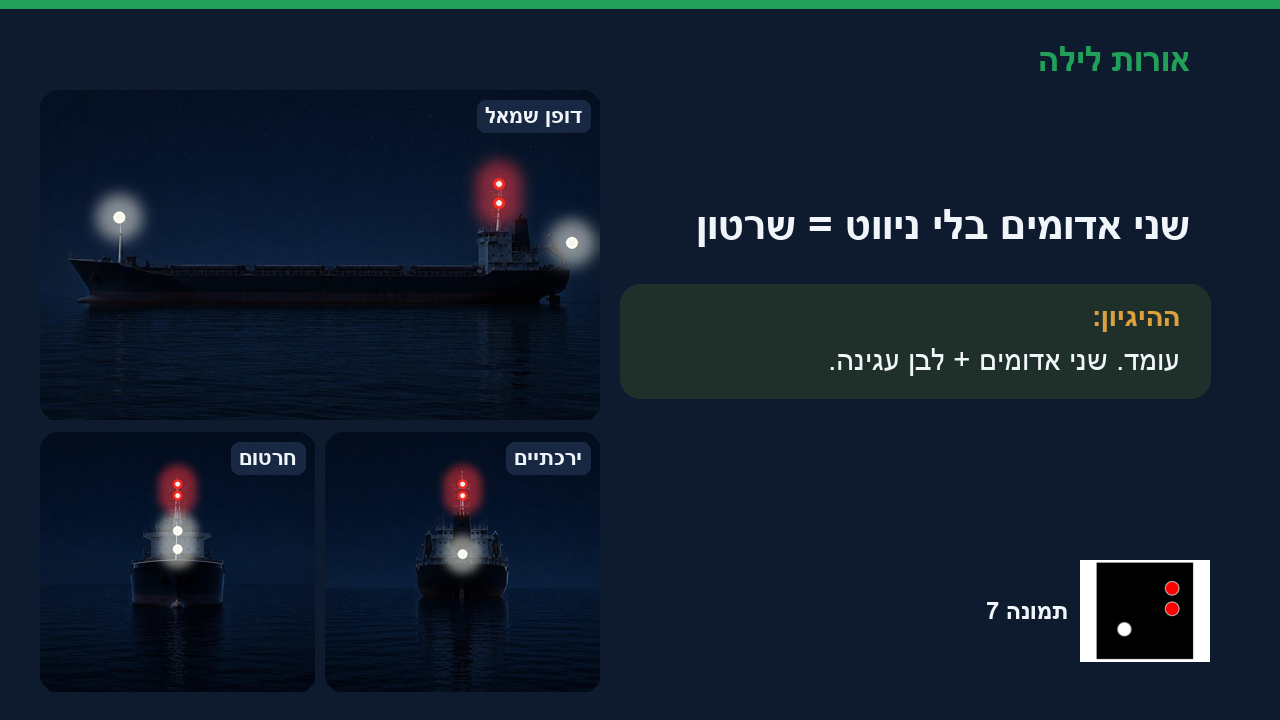
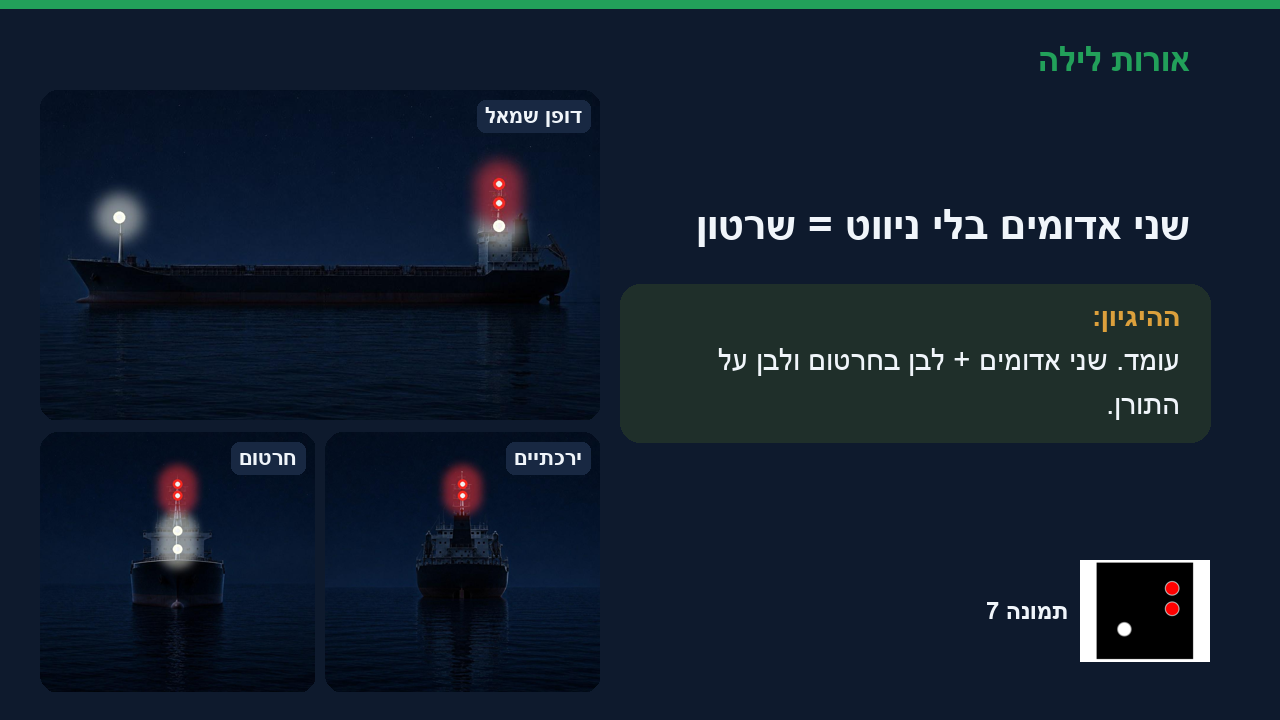
l12 אורות לילה: aground/anchor aft white on the mast, no white from astern when aground (Alex)

diff --git a/lessons/l12/sources/cards_lights.py b/lessons/l12/sources/cards_lights.py
@@ -37,9 +37,9 @@ CARDS = {
  "s_draft":   ("שלושה אדומים = מוגבל בשוקע", None, "ביום: חבית. מפנים. עוברים מאחוריו.", [25]),
  "s_mines":   ("שלושה ירוקים = שולת מוקשים", None, "מתרחקים.", [56]),
  "s_nuc":     ("שני אדומים + ניווט = חסר שליטה", None, "עושה דרכו במים, נסחף. אין לבן, אין מנוע.", [33]),
- "s_aground": ("שני אדומים בלי ניווט = שרטון", None, "עומד. שני אדומים + לבן עגינה.", [7]),
+ "s_aground": ("שני אדומים בלי ניווט = שרטון", None, "עומד. שני אדומים + לבן בחרטום ולבן על התורן.", [7]),
  "s_anchor":  ("עוגן עד 50 מטר: לבן אחד", None, "לבן אחד, רואים אותו מכל כיוון. בלי אורות ניווט.", [27]),
- "s_anchor50":("עוגן מעל 50 מטר: שני לבנים", None, "אחד בחרטום, אחד בירכתיים. הקדמי גבוה יותר.", [61]),
+ "s_anchor50":("עוגן מעל 50 מטר: שני לבנים", None, "אחד בחרטום, אחד על התורן. הקדמי גבוה יותר.", [61]),
  "s_tow":     ("פעמיים אורות ניווט = גוררת", None, "בלי אדום-לבן-אדום: ממוכנת. כמות הלבנים לא משנה.", [6]),
  "s_tow200":  ("גוררת: עד 200 מ' ומעל 200 מ'", None, "משך עד 200 מ': שני לבנים בקו אחד | מעל 200 מ': שלושה", []),
  "s_yellow":  ("צהוב מאחור = גוררת", None, "צהוב קבוע מעל אור הירכתיים.", [17]),

diff --git a/media/vessels/night/compose_night.py b/media/vessels/night/compose_night.py
@@ -72,12 +72,12 @@ V = {
  "nuc_stern": ("cargo_stern", stack(50, [20, 24.5], R_) + CS_STERN),
  # aground: 2 red + anchor lights, no navigation lights
  "aground_bow":   ("cargo_bow",   stack(50, [20, 24.5], R_) + [(50, 38, W_), (50, 45, W_)]),
- "aground_port":  ("cargo_port",  [(14.2, 41, W_), (95, 47, W_)] + stack(82, [33, 37.5], R_)),
- "aground_stern": ("cargo_stern", stack(50, [20, 24.5], R_) + [(50, 47, W_)]),
+ "aground_port":  ("cargo_port",  [(14.2, 41, W_), (82, 43, W_)] + stack(82, [33, 37.5], R_)),   # anchor light on the mast, not the stern (Alex)
+ "aground_stern": ("cargo_stern", stack(50, [20, 24.5], R_)),   # no white from astern (Alex)
  # at anchor > 50 m: two white, forward higher
  "anchor_big_bow":   ("cargo_bow",   [(50, 38, W_), (50, 45, W_)]),
- "anchor_big_port":  ("cargo_port",  [(14.2, 41, W_), (95, 47, W_)]),
- "anchor_big_stern": ("cargo_stern", [(50, 47, W_)]),
+ "anchor_big_port":  ("cargo_port",  [(14.2, 41, W_), (82, 43, W_)]),   # aft anchor light on the mast (Alex)
+ "anchor_big_stern": ("cargo_stern", [(50, 31, W_)]),   # on the mast
  # at anchor < 50 m: one white all-round
  "anchor_small_bow":   ("motor_bow",   [(50, 33, W_)]),
  "anchor_small_port":  ("motor_port",  [(62, 35, W_)]),
